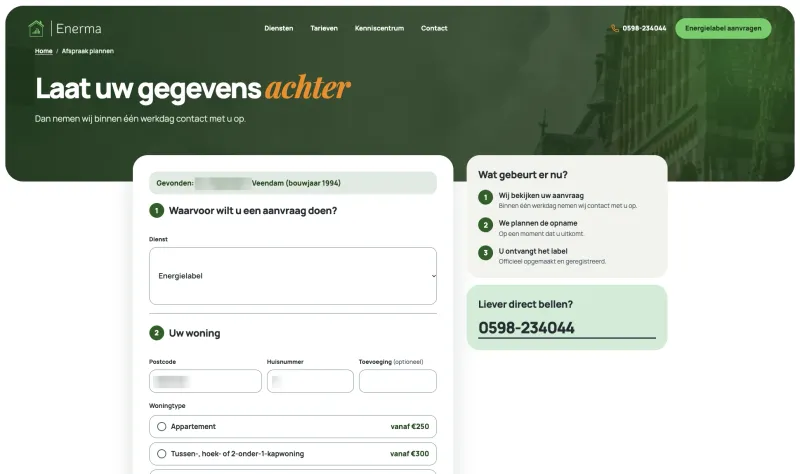
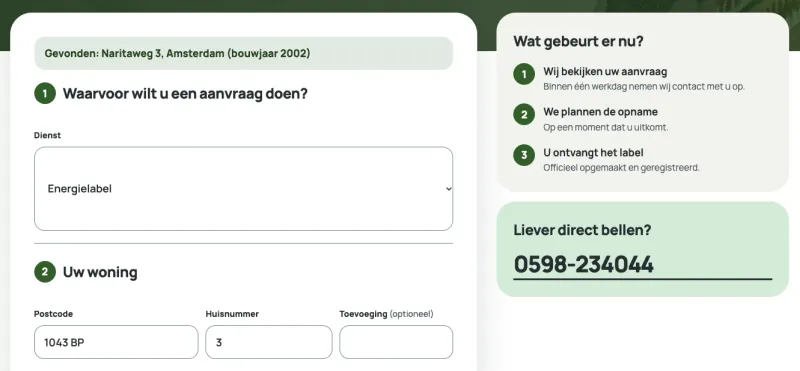
Enerma: stappen van de BAG-koppeling en formulier met demo-adres
Claude-Session: https://claude.ai/code/session_01TrfT8F8AovmFDY8v3bQEaT

diff --git a/src/content/cases/enerma.md b/src/content/cases/enerma.md
@@ -35,12 +35,15 @@ choices:
   - title: Snel en veilig
     reason: 'De website laadt razendsnel, en er is nauwelijks iets dat kan haperen of kwetsbaar kan zijn. Bezoekersstatistieken werken zonder cookiebanner, en de vorige website is netjes doorverwezen, zodat bezoekers en Google de nieuwe pagina''s moeiteloos vinden.'
 detailImages:
-  - src: /work/enerma-diensten.webp
-    alt: Dienstenoverzicht op de website van Enerma
-  - src: /work/enerma-formulier.webp
-    alt: Intakeformulier van Enerma met het gevonden adres, bouwjaar en de gekozen dienst
+  - src: /work/enerma-stap-postcode.webp
+    alt: 'Stap 1: de bezoeker vult postcode en huisnummer in'
+  - src: /work/enerma-stap-adres.webp
+    alt: 'Stap 2: de BAG-koppeling toont direct straat, plaats, woonoppervlakte en bouwjaar'
+executionImage:
+  src: /work/enerma-formulier.webp
+  alt: Intakeformulier van Enerma met het uit de BAG gevonden adres en bouwjaar al ingevuld
 resultHeading: Wat het oplevert.
 result: 'Bezoekers vinden hun woning met alleen postcode en huisnummer en maken in een paar klikken een afspraak. Enerma beheert teksten, diensten, artikelen, formuliervragen en aanvragen zelf.'
 website: https://enerma.nl/
 ---
-Voor Enerma bouwden we een website die snel, veilig en modern is: statisch uitgeleverd, met een eigen beheeromgeving en een koppeling met de BAG van het Kadaster. Het formulier verstuurt de aanvraag per e-mail naar Enerma en stuurt de klant meteen een bevestiging.
+Voor Enerma bouwden we een website die snel, veilig en modern is: statisch uitgeleverd, met een eigen beheeromgeving en een koppeling met de BAG van het Kadaster. Op de formulierpagina staat het gevonden adres al klaar. Het formulier verstuurt de aanvraag per e-mail naar Enerma en stuurt de klant meteen een bevestiging.
